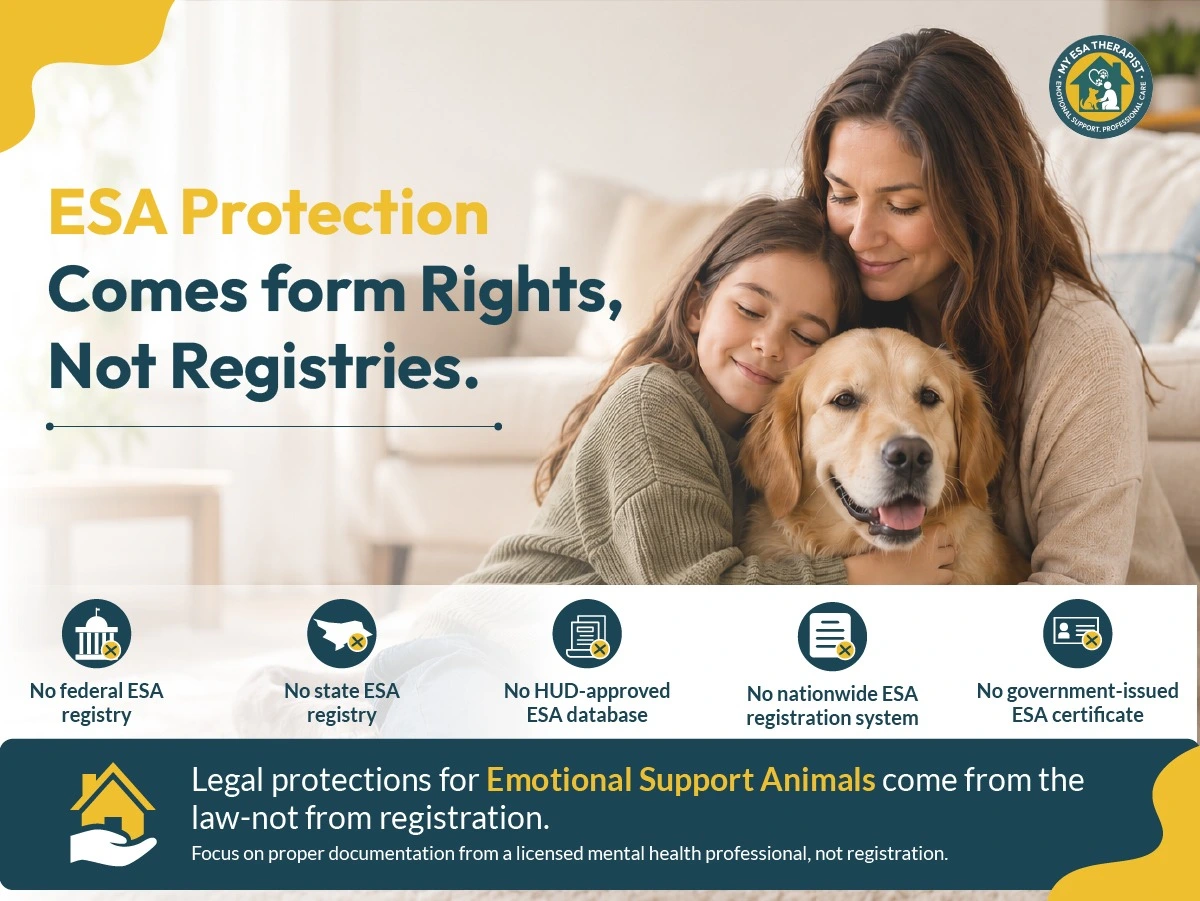
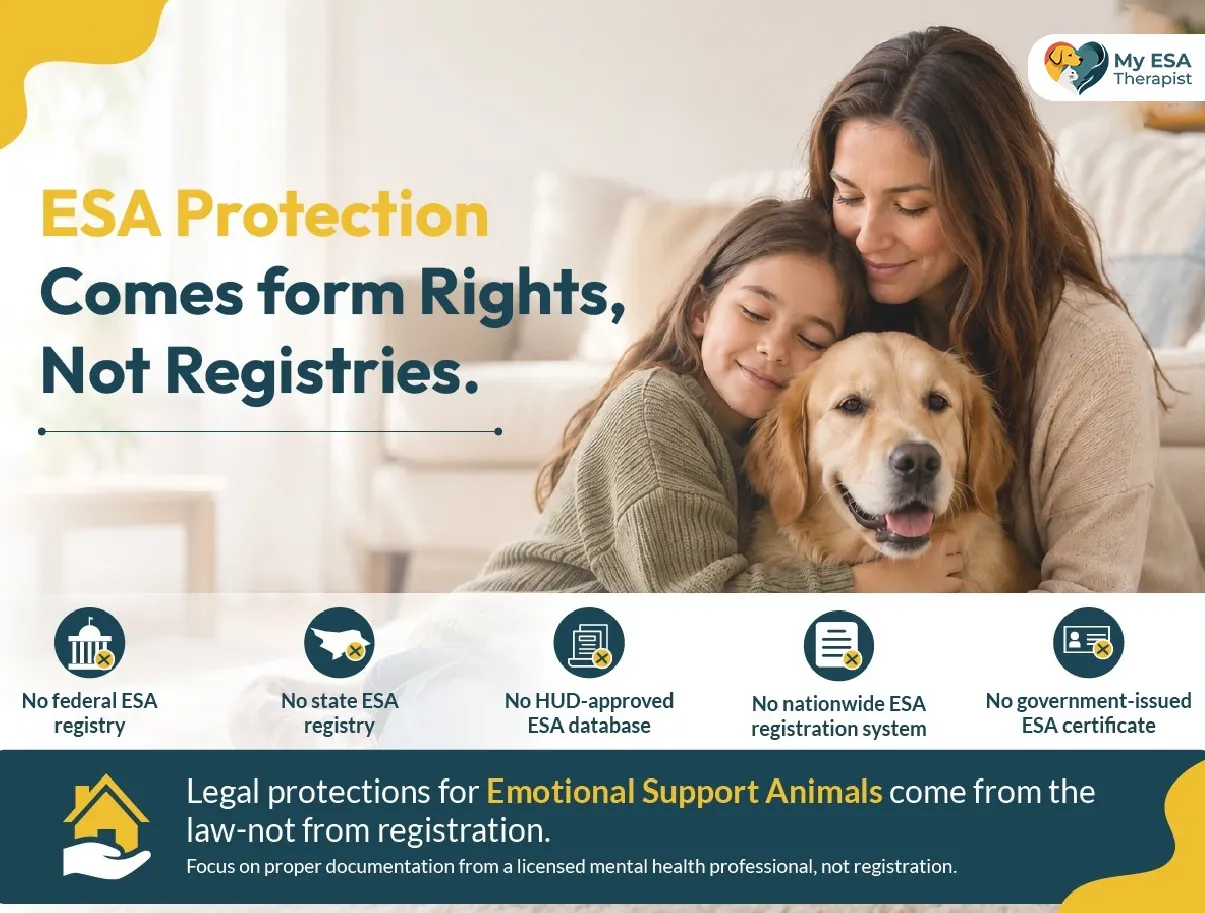
fix(blog): update image assets and formats for is-esa-registration-legit

diff --git a/data/blogsData.ts b/data/blogsData.ts
@@ -642,7 +642,7 @@ export const BLOG_POSTS: BlogArticle[] = [
         title:
           "ESA Registration, ID Cards & Certificates: What Counts as Legal Proof?",
         bannerImage: {
-          src: "/Blog Images/Does ESA Registration Actually Mean Anything_/common-esa-products-not-legal-proof.png",
+          src: "/Blog Images/Does ESA Registration Actually Mean Anything_/common-esa-products-not-legal-proof.jpg",
           alt: "Common ESA products",
         },
         bannerPosition: "bottom",
